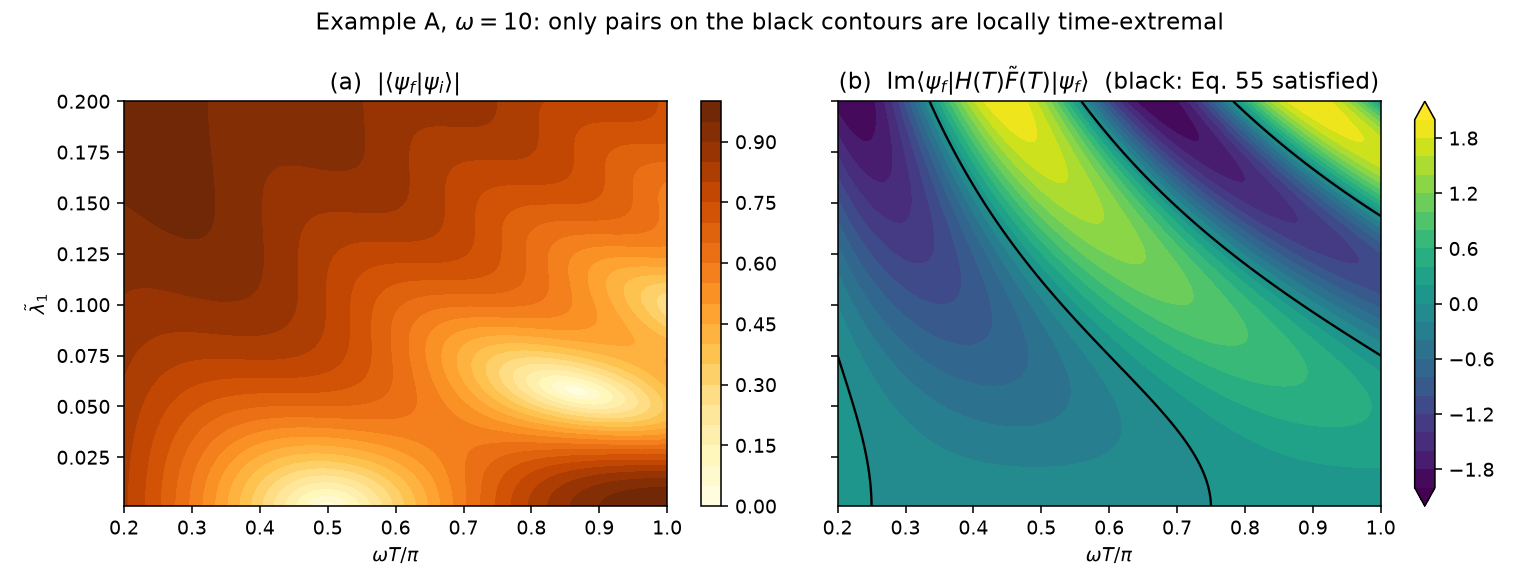
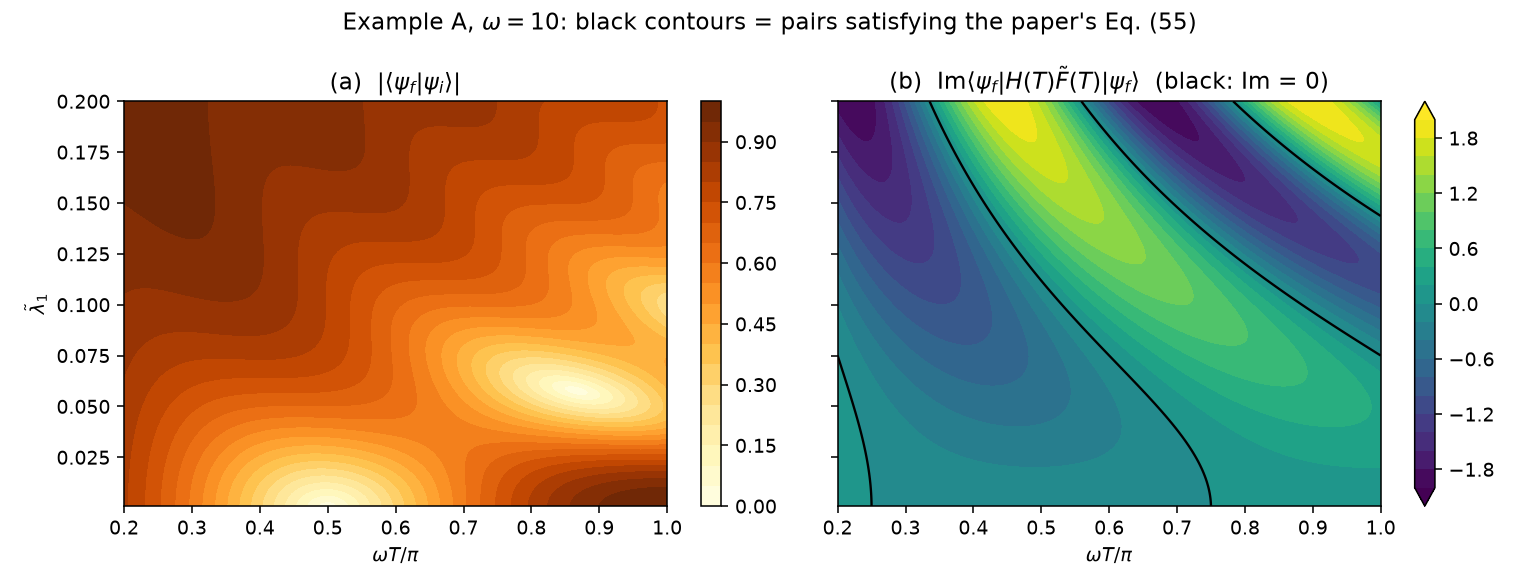
Streamlit app: general any-state mode, exact circuit worker, README update
- app.py: third mode using qb_solve_m1 for arbitrary initial/final states,
  Bloch-angle sliders, per-branch Eq. 55 residual table
- qb_worker.py: JSON input, arbitrary initial state, exact UnitaryGate
  evolution step (transpiled fidelity 1)
- README: document the three app modes, drop deleted bell.py references

Changed region(s): [[0.187, 0.0, 0.8104, 0.0612], [0.5299, 0.1224, 0.9039, 0.1531]]

diff --git a/app.py b/app.py
@@ -1,5 +1,5 @@
 """Streamlit UI for the single-qubit restricted quantum brachistochrone (Yang & del Campo,
-arXiv:2204.12792, Example A).  Run:  streamlit run app.py
+arXiv:2204.12792, Example A, plus the general any-state solver).  Run:  streamlit run app.py
 
 Everything is computed locally with Qiskit (statevector + Aer simulator).  The physics lives in
 qb_example_A.py; this file only adds controls, tables and plots on top of it.
@@ -21,14 +21,33 @@ import qb_example_A as qb
 HERE = os.path.dirname(os.path.abspath(__file__))
 
 
+def _flat(psi):
+    psi = np.asarray(psi, dtype=complex)
+    return [float(psi[0].real), float(psi[0].imag), float(psi[1].real), float(psi[1].imag)]
+
+
 @st.cache_data(show_spinner="Building and simulating the Qiskit circuit...")
-def run_qiskit(T, l1, omega, shots, phi, OmB):
+def run_qiskit(T, omega, alpha, lambda1, shots, psi_i, psi_f):
     """All Qiskit work happens in a fresh interpreter: see qb_worker.py for why."""
-    args = [sys.executable, os.path.join(HERE, "qb_worker.py")] + [repr(x) for x in (T, l1, omega, shots, phi, OmB)]
-    proc = subprocess.run(args, capture_output=True, text=True, cwd=HERE, timeout=120)
+    req = dict(T=T, omega=omega, alpha=alpha, lambda1=lambda1, shots=shots, psi_i=psi_i, psi_f=psi_f)
+    proc = subprocess.run([sys.executable, os.path.join(HERE, "qb_worker.py")], input=json.dumps(req),
+                          capture_output=True, text=True, cwd=HERE, timeout=120)
     if proc.returncode != 0:
         raise RuntimeError(proc.stderr[-2000:])
     return json.loads(proc.stdout)
+
+
+@st.cache_data(show_spinner="Searching extremal trajectories (multistart root finding)...")
+def solve_general(psi_i, psi_f, omega, ntry):
+    sols = qb.qb_solve_m1(np.array(psi_i[::2]) + 1j * np.array(psi_i[1::2]),
+                          np.array(psi_f[::2]) + 1j * np.array(psi_f[1::2]), w=omega, ntry=ntry)
+    return [dict(T=s.T, alpha=s.alpha, lambda1=s.lambda1, fidelity=s.fidelity, eq55=s.eq55) for s in sols]
+
+
+def ket(theta, phi):
+    """Bloch-sphere angles -> state  cos(θ/2)|0> + e^{iφ} sin(θ/2)|1>."""
+    return np.array([np.cos(theta / 2), np.exp(1j * phi) * np.sin(theta / 2)])
+
 
 st.set_page_config(page_title="Quantum Brachistochrone Explorer", page_icon="⏱", layout="wide")
 
@@ -36,8 +55,14 @@ st.title("Quantum Brachistochrone Explorer")
 st.markdown(
     "Fastest way to steer one qubit when the **σ_z control is forbidden**. "
     "Reproduces Example A of Yang & del Campo, "
-    "[arXiv:2204.12792](https://arxiv.org/abs/2204.12792), with Qiskit circuits "
-    "verified on a local simulator."
+    "[arXiv:2204.12792](https://arxiv.org/abs/2204.12792), extends it to arbitrary initial and "
+    "final states, and verifies every result with a Qiskit circuit on a local simulator."
+)
+
+MODE_A, MODE_DIRECT, MODE_GENERAL = (
+    "Example A: target from an extremal trajectory (k, λ₁)",
+    "Example A: enter target (φ, Ω_B) directly",
+    "Any initial and final state (general solver)",
 )
 
 # ----------------------------------------------------------------------------- sidebar
@@ -48,72 +73,117 @@ with st.sidebar:
         help="Largest allowed energy scale. The paper's Fig. 2 uses ω = 10.",
     )
     mode = st.radio(
-        "How to choose the target state",
-        ["From an extremal trajectory (k, λ₁)", "Enter (φ, Ω_B) directly"],
-        help="Only targets lying on an extremal curve are reachable by a brachistochrone "
-             "of this form. The first option guarantees that.",
+        "Problem to solve", [MODE_A, MODE_DIRECT, MODE_GENERAL],
+        help="Example A starts from |+x⟩ and uses the paper's closed forms. The general solver "
+             "starts from any state and finds extremals numerically.",
     )
-    if mode.startswith("From"):
+    if mode == MODE_A:
         k0 = st.slider("Branch index k", 0, 4, 0, help="Integer branch in Eq. (103).")
         l1_0 = st.slider("Lagrange multiplier λ₁", -15.0, 15.0, 7.0, 0.5,
                          help="Multiplier enforcing the forbidden σ_z control.")
         T0 = (np.pi / 4 + k0 * np.pi / 2) / np.hypot(l1_0, omega)
-        tol = 1e-6
         phi, OmB = qb.target_params(qb.U_t(T0, l1_0, omega) @ qb.PSI_I)
-    else:
+        tol = 1e-6
+    elif mode == MODE_DIRECT:
         phi = st.number_input("Phase φ (radians)", 0.0, float(np.pi), 2.73154, 0.001, format="%.5f")
         OmB = st.number_input("Bures angle Ω_B (radians)", 0.001, float(np.pi / 2), 0.55230, 0.001,
                               format="%.5f",
                               help="Angle between initial and target state. Free minimum time is Ω_B/ω.")
-        tol = st.select_slider("Matching tolerance for Eqs. (99)-(101)", [1e-6, 1e-4, 1e-2, 1e-1], 1e-2,
+        tol = st.select_slider("Matching tolerance for Eq. (105)", [1e-6, 1e-4, 1e-2, 1e-1], 1e-2,
                                help="Looser tolerance admits approximate branches; check the fidelity column.")
+    else:
+        st.markdown("**Initial state** (Bloch angles)")
+        th_i = st.slider("θ initial", 0.0, float(np.pi), float(np.pi / 2), 0.01, key="thi",
+                         help="Polar angle from |0⟩. θ = π/2, φ = 0 is |+x⟩.")
+        ph_i = st.slider("φ initial", 0.0, float(2 * np.pi), 0.0, 0.01, key="phi_i")
+        st.markdown("**Final state** (Bloch angles)")
+        th_f = st.slider("θ final", 0.0, float(np.pi), 2.3, 0.01, key="thf")
+        ph_f = st.slider("φ final", 0.0, float(2 * np.pi), 2.0, 0.01, key="phi_f")
+        ntry = st.select_slider("Random starts for the root finder", [50, 150, 300], 150,
+                                help="More starts find more extremal branches but take longer.")
     shots = st.select_slider("Aer simulator shots", [100, 1000, 4000, 10000], 1000)
 
 # ----------------------------------------------------------------------------- solve
-psi_f = qb.target_state(phi, OmB)
-t_free = OmB / omega
-sols = qb.solve_known_target(phi, OmB, w=omega, tol=tol)
-
 st.subheader("Target and minimum times")
-c1, c2, c3 = st.columns(3)
-c1.metric("Target φ", f"{phi:.4f} rad")
-c2.metric("Target Ω_B", f"{OmB:.4f} rad")
-c3.metric("Unrestricted minimum time Ω_B/ω", f"{t_free:.5f}")
 
-if not sols:
-    st.warning(
-        "No extremal trajectory of the closed-subalgebra form reaches this target "
-        "(Eqs. 99-101 have no integer solution (k, l)). Try the first target mode, "
-        "or move the sliders slightly.", icon="⚠",
+if mode == MODE_GENERAL:
+    psi_i, psi_f = ket(th_i, ph_i), ket(th_f, ph_f)
+    OmB = float(np.arccos(np.clip(abs(np.vdot(psi_i, psi_f)), 0, 1)))
+    t_free = OmB / omega
+    c1, c2, c3 = st.columns(3)
+    c1.metric("Bloch vector of initial state", "(%.2f, %.2f, %.2f)" % tuple(qb.bloch_vector(psi_i)))
+    c2.metric("Bures angle Ω_B", f"{OmB:.4f} rad")
+    c3.metric("Unrestricted minimum time Ω_B/ω", f"{t_free:.5f}")
+    if OmB < 1e-6:
+        st.info("Initial and final states coincide: nothing to do, minimum time is 0.")
+        st.stop()
+    rows = solve_general(_flat(psi_i), _flat(psi_f), float(omega), int(ntry))
+    if not rows:
+        st.warning("The root finder found no extremal trajectory. Increase the number of random "
+                   "starts or move the sliders slightly.", icon="⚠")
+        st.stop()
+    best = rows[0]
+    T, alpha, l1 = best["T"], best["alpha"], best["lambda1"]
+    c4, c5, c6 = st.columns(3)
+    c4.metric("Restricted minimum time T", f"{T:.5f}", help="Fastest extremal found (candidate global minimum).")
+    c5.metric("Slow-down factor T / T_free", f"{T / t_free:.3f}",
+              help="Theorem 1 of the paper guarantees this is at least 1.")
+    c6.metric("H(0) direction α, multiplier λ₁", f"{alpha:.3f}, {l1:.3f}",
+              help="H(0) = ω (cos α σ_x + sin α σ_y). Example A is α = π/2.")
+    st.markdown("**All extremal branches found (sorted by time).** The last column is the paper's "
+                "extra endpoint quantity, Eq. (55); it is reported, not imposed, because for generic "
+                "targets no branch satisfies it even though the fastest one matches brute-force "
+                "optimal control.")
+    st.dataframe(
+        [{"T": round(r["T"], 6), "α": round(r["alpha"], 4), "λ₁": round(r["lambda1"], 4),
+          "fidelity": round(r["fidelity"], 10), "Im/Re⟨ψ_f|H F|ψ_f⟩ (Eq. 55)": f"{r['eq55']:.2e}",
+          "Eq. 55 satisfied": abs(r["eq55"]) < 1e-6} for r in rows[:12]],
+        hide_index=True, width="stretch",
     )
-    st.stop()
-
-T, k, l, l1, fid, im = sols[0]
-c4, c5, c6 = st.columns(3)
-c4.metric("Restricted minimum time T", f"{T:.5f}", help="Eq. (103), smallest allowed (k, l).")
-c5.metric("Slow-down factor T / T_free", f"{T / t_free:.3f}",
-          help="Theorem 1 of the paper guarantees this is at least 1.")
-c6.metric("Multiplier λ₁", f"{l1:.4f}")
-
-st.markdown("**All candidate branches (sorted by time).** Fidelity is the overlap of the "
-            "simulated final state with the target. The last column is the endpoint condition "
-            "Eq. (55), which must vanish.")
-st.dataframe(
-    [{"T": round(s[0], 6), "k": s[1], "l": s[2], "λ₁": round(s[3], 5),
-      "fidelity": round(s[4], 10), "Im⟨ψ_f|H F̃|ψ_f⟩": f"{s[5]:.1e}"} for s in sols],
-    hide_index=True, width='stretch',
-)
+    U_of_t = lambda t: qb.U_general(t, alpha, l1, omega)
+else:
+    psi_i, psi_f = qb.PSI_I, qb.target_state(phi, OmB)
+    t_free = OmB / omega
+    sols = qb.solve_known_target(phi, OmB, w=omega, tol=tol)
+    c1, c2, c3 = st.columns(3)
+    c1.metric("Target φ", f"{phi:.4f} rad")
+    c2.metric("Target Ω_B", f"{OmB:.4f} rad")
+    c3.metric("Unrestricted minimum time Ω_B/ω", f"{t_free:.5f}")
+    if not sols:
+        st.warning(
+            "No extremal trajectory of the closed-subalgebra form reaches this target "
+            "(Eq. 105 has no integer solution (k, l)). Try the first mode, loosen the tolerance, "
+            "or use the general solver.", icon="⚠",
+        )
+        st.stop()
+    T, k, l, l1, fid, im = sols[0]
+    alpha = float(np.pi / 2)
+    c4, c5, c6 = st.columns(3)
+    c4.metric("Restricted minimum time T", f"{T:.5f}", help="Eq. (103), smallest allowed (k, l).")
+    c5.metric("Slow-down factor T / T_free", f"{T / t_free:.3f}",
+              help="Theorem 1 of the paper guarantees this is at least 1.")
+    c6.metric("Multiplier λ₁", f"{l1:.4f}")
+    st.markdown("**All candidate branches (sorted by time).** Fidelity is the overlap of the "
+                "simulated final state with the target. The last column is the endpoint condition "
+                "Eq. (55), which must vanish.")
+    st.dataframe(
+        [{"T": round(s[0], 6), "k": s[1], "l": s[2], "λ₁": round(s[3], 5),
+          "fidelity": round(s[4], 10), "Im⟨ψ_f|H F̃|ψ_f⟩": f"{s[5]:.1e}"} for s in sols],
+        hide_index=True, width="stretch",
+    )
+    U_of_t = lambda t: qb.U_t(t, l1, omega)
 
 # ----------------------------------------------------------------------------- circuit
 st.subheader("Qiskit circuit for U(T)")
-res = run_qiskit(float(T), float(l1), float(omega), int(shots), float(phi), float(OmB))
+res = run_qiskit(float(T), float(omega), float(alpha), float(l1), int(shots), _flat(psi_i), _flat(psi_f))
 counts, probs_exact = res["counts"], res["exact_probs"]
 
 left, right = st.columns([3, 2])
 with left:
     st.code(res["drawing"], language="text")
-    st.caption(f"Transpiled to rz/sx/x: {res['n_gates']} gates, depth {res['depth']}. "
-               f"Statevector fidelity with target: {res['fidelity']:.10f}")
+    st.caption(f"Statevector fidelity with target: {res['fidelity']:.10f}. "
+               f"Transpiled to rz/sx/x: {res['n_gates']} gates, depth {res['depth']}, "
+               f"fidelity {res['fidelity_transpiled']:.10f}.")
     with st.expander("Transpiled circuit"):
         st.code(res["transpiled_drawing"], language="text")
 with right:
@@ -121,17 +191,14 @@ with right:
     st.dataframe(
         [{"outcome": b, "measured fraction": counts.get(b, 0) / shots,
           "exact |amplitude|²": round(probs_exact[b], 4)} for b in ("0", "1")],
-        hide_index=True, width='stretch',
+        hide_index=True, width="stretch",
     )
 
 # ----------------------------------------------------------------------------- Bloch path
 st.subheader("Trajectory on the Bloch sphere")
 ts = np.linspace(0, T, 200)
-bloch = np.array([
-    [np.real(np.conj(p) @ P @ p) for P in (qb.X, qb.Y, qb.Z)]
-    for p in (qb.U_t(t, l1, omega) @ qb.PSI_I for t in ts)
-])
-tf = np.array([np.real(np.conj(psi_f) @ P @ psi_f) for P in (qb.X, qb.Y, qb.Z)])
+bloch = np.array([qb.bloch_vector(U_of_t(t) @ psi_i) for t in ts])
+tf = qb.bloch_vector(psi_f)
 
 fig = Figure(figsize=(7, 3.2))
 ax = fig.add_subplot()
@@ -145,7 +212,7 @@ ax.grid(alpha=0.3)
 ax.legend(loc="best", ncol=3)
 ax.set_title("Line styles distinguish components; black dots mark the target")
 fig.tight_layout()
-st.pyplot(fig, width='stretch')
+st.pyplot(fig, width="stretch")
 st.caption(
     f"Bloch-vector components along the time-optimal path. Target Bloch vector "
     f"({tf[0]:.3f}, {tf[1]:.3f}, {tf[2]:.3f}) is reached at t = T = {T:.5f}."
@@ -161,4 +228,4 @@ with st.expander("Reproduce Fig. 2 of the paper (ω = 10, as in the paper)"):
             qb.make_figure(path)
         st.image(path, caption="Fig. 2: (a) overlap with initial state, (b) endpoint "
                                "condition; black contour marks locally time-extremal pairs.",
-                 width='stretch')
+                 width="stretch")

diff --git a/qb_worker.py b/qb_worker.py
@@ -5,7 +5,11 @@ thread each time a widget changes, and creating Qiskit circuits across those rer
 Qiskit's Rust allocator (segfault in CircuitData::new on Python 3.14 / Qiskit 2.5).  Keeping all
 QuantumCircuit objects in a short-lived process avoids that entirely.
 
-Usage:  python qb_worker.py T l1 omega shots phi OmB   ->  JSON on stdout
+Input (JSON on stdin):
+    {"T": .., "omega": .., "alpha": .., "lambda1": .., "shots": .., "psi_i": [re0, im0, re1, im1],
+     "psi_f": [re0, im0, re1, im1]}
+    H(0) = omega (cos(alpha) X + sin(alpha) Y);  Example A of the paper is alpha = pi/2.
+Output: JSON on stdout.
 """
 import json
 import sys
@@ -14,32 +18,56 @@ import warnings
 warnings.filterwarnings("ignore")
 
 import numpy as np
-from qiskit import transpile
-from qiskit.quantum_info import Statevector
+from qiskit import QuantumCircuit, transpile
+from qiskit.circuit.library import UnitaryGate
+from qiskit.quantum_info import SparsePauliOp, Statevector
+from scipy.linalg import expm
 from qiskit_aer import AerSimulator
 
-import qb_example_A as qb
+PLUS_X = np.array([1, 1]) / np.sqrt(2)
 
 
-def main(T, l1, omega, shots, phi, OmB):
-    qc = qb.qb_circuit(T, l1, omega)
+def _vec(v):
+    a = np.array([v[0] + 1j * v[1], v[2] + 1j * v[3]])
+    return a / np.linalg.norm(a)
+
+
+def build_circuit(T, omega, alpha, l1, psi_i):
+    """|0> -> |psi_i>, then exp(-i (H(0) + l1 Z) T), then exp(+i l1 Z T) = RZ(-2 l1 T).
+    The evolution step is appended as the exact 2x2 unitary: X/Y and Z do not commute, so the
+    default single-step Trotter split of PauliEvolutionGate would not be exact (fidelity ~0.96),
+    and Qiskit 2.5's transpiler rejects PauliEvolutionGate(synthesis=MatrixExponential())."""
+    qc = QuantumCircuit(1)
+    if abs(abs(np.vdot(PLUS_X, psi_i)) - 1) < 1e-9:
+        qc.h(0)  # Example A: |+x>
+    else:
+        qc.prepare_state(psi_i, 0)
+    gen = SparsePauliOp.from_list([("X", omega * np.cos(alpha)), ("Y", omega * np.sin(alpha)), ("Z", l1)])
+    qc.append(UnitaryGate(expm(-1j * T * gen.to_matrix()), label="exp(-i(H(0)+λ₁Z)T)"), [0])
+    qc.rz(-2 * l1 * T, 0)
+    return qc
+
+
+def main(req):
+    psi_i, psi_f = _vec(req["psi_i"]), _vec(req["psi_f"])
+    qc = build_circuit(req["T"], req["omega"], req["alpha"], req["lambda1"], psi_i)
     tqc = transpile(qc, basis_gates=["rz", "sx", "x", "cx"])
-    psi_f = qb.target_state(phi, OmB)
     sv = Statevector(qc).data
+    sv_t = Statevector(tqc).data
     meas = tqc.copy()
     meas.measure_all()
-    counts = AerSimulator().run(meas, shots=shots).result().get_counts()
+    counts = AerSimulator().run(meas, shots=int(req["shots"])).result().get_counts()
     return {
         "drawing": str(qc.draw(output="text")),
         "transpiled_drawing": str(tqc.draw(output="text")),
         "n_gates": tqc.size(),
         "depth": tqc.depth(),
         "fidelity": float(abs(np.vdot(psi_f, sv)) ** 2),
+        "fidelity_transpiled": float(abs(np.vdot(psi_f, sv_t)) ** 2),
         "counts": {k: int(v) for k, v in counts.items()},
         "exact_probs": {"0": float(abs(psi_f[0]) ** 2), "1": float(abs(psi_f[1]) ** 2)},
     }
 
 
 if __name__ == "__main__":
-    T, l1, omega, shots, phi, OmB = (float(x) for x in sys.argv[1:7])
-    print(json.dumps(main(T, l1, omega, int(shots), phi, OmB)))
+    print(json.dumps(main(json.load(sys.stdin))))

diff --git a/README.md b/README.md
@@ -49,14 +49,22 @@ where `l1` is a Lagrange multiplier fixed by the forbidden control.
    `|psi_f(phi, Omega_B)>` it finds the allowed integer branches `(k, l)`, computes
    `T(k, l)` from Eq. 103, and confirms the result by simulating the Qiskit circuit.
 
-`bell.py` is a two-line sanity check that Qiskit and Aer are installed (Bell state, 1000 shots).
-
 ### Interactive app
 
-`app.py` is a Streamlit front end over the same functions. Pick ω and a target state in the
-sidebar and the app shows the restricted versus unrestricted minimum time, every candidate
-branch `(k, l)` with its fidelity, the Qiskit circuit, an Aer measurement run, the Bloch-vector
-trajectory, and a button that regenerates Fig. 2.
+`app.py` is a Streamlit front end over the same functions. Pick ω and a problem in the
+sidebar and the app shows the restricted versus unrestricted minimum time, every extremal
+branch with its fidelity, the Qiskit circuit (exact unitary, transpiled to `rz, sx, x`), an Aer
+measurement run, the Bloch-vector trajectory, and a button that regenerates Fig. 2. Three modes:
+
+1. **Example A, target from a branch `(k, λ₁)`**: always lands on a solvable target.
+2. **Example A, direct `(φ, Ω_B)` entry**: uses the paper's closed forms, Eqs. 97-105.
+3. **Any initial and final state**: Bloch-angle sliders for both states, solved by
+   `qb_solve_m1`, a multistart root finder over `(α, λ₁, T)` for the general closed-subalgebra
+   family `H(0) = ω (cos α σ_x + sin α σ_y)`. The paper's extra endpoint condition, Eq. 55, is
+   reported per branch but not imposed; see the note in the `qb_example_A.py` docstring.
+
+All Qiskit circuit construction runs in a short-lived subprocess, `qb_worker.py`, because
+creating circuits across Streamlit reruns crashes Qiskit 2.5's Rust allocator on Python 3.14.
 
 ```bash
 streamlit run app.py
@@ -90,7 +98,6 @@ git clone https://github.com/dirichlettt/qollab_hackathon_2026.git
 cd qollab_hackathon_2026
 python -m venv .venv && source .venv/bin/activate
 pip install -r requirements.txt
-python bell.py           # sanity check: Qiskit + Aer work
 python qb_example_A.py   # full reproduction; writes qb_fig2.png
 ```
 
